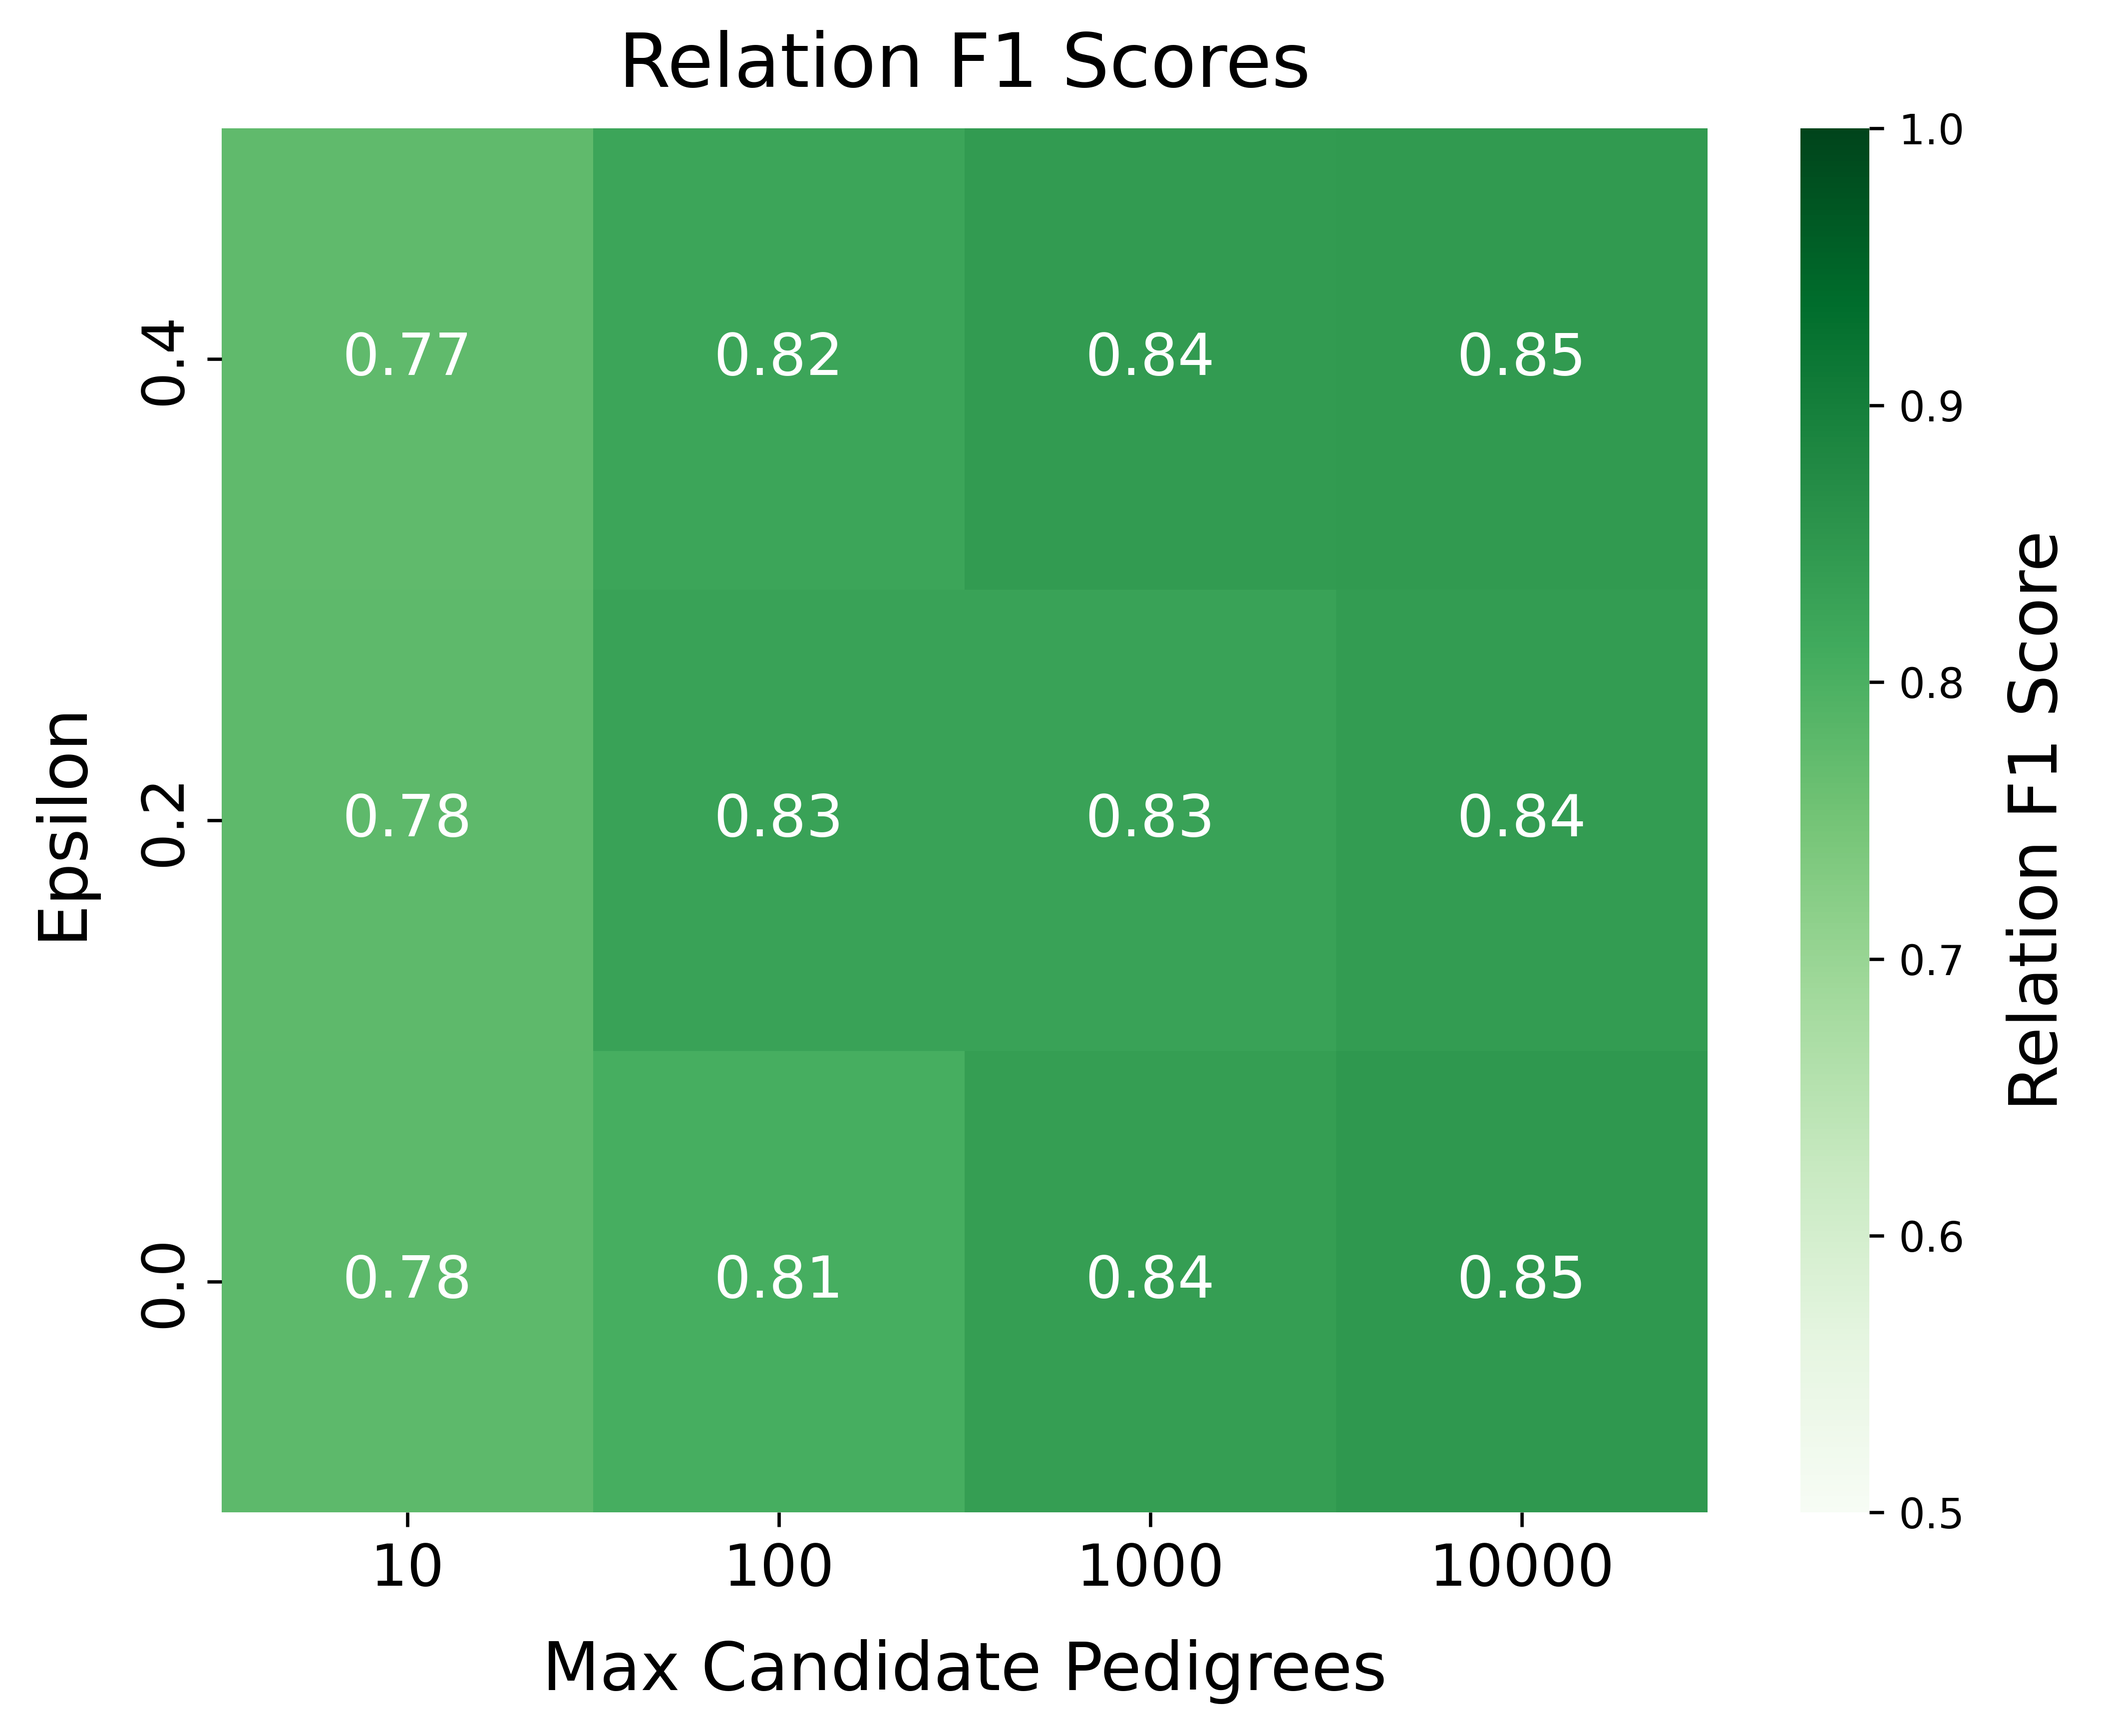
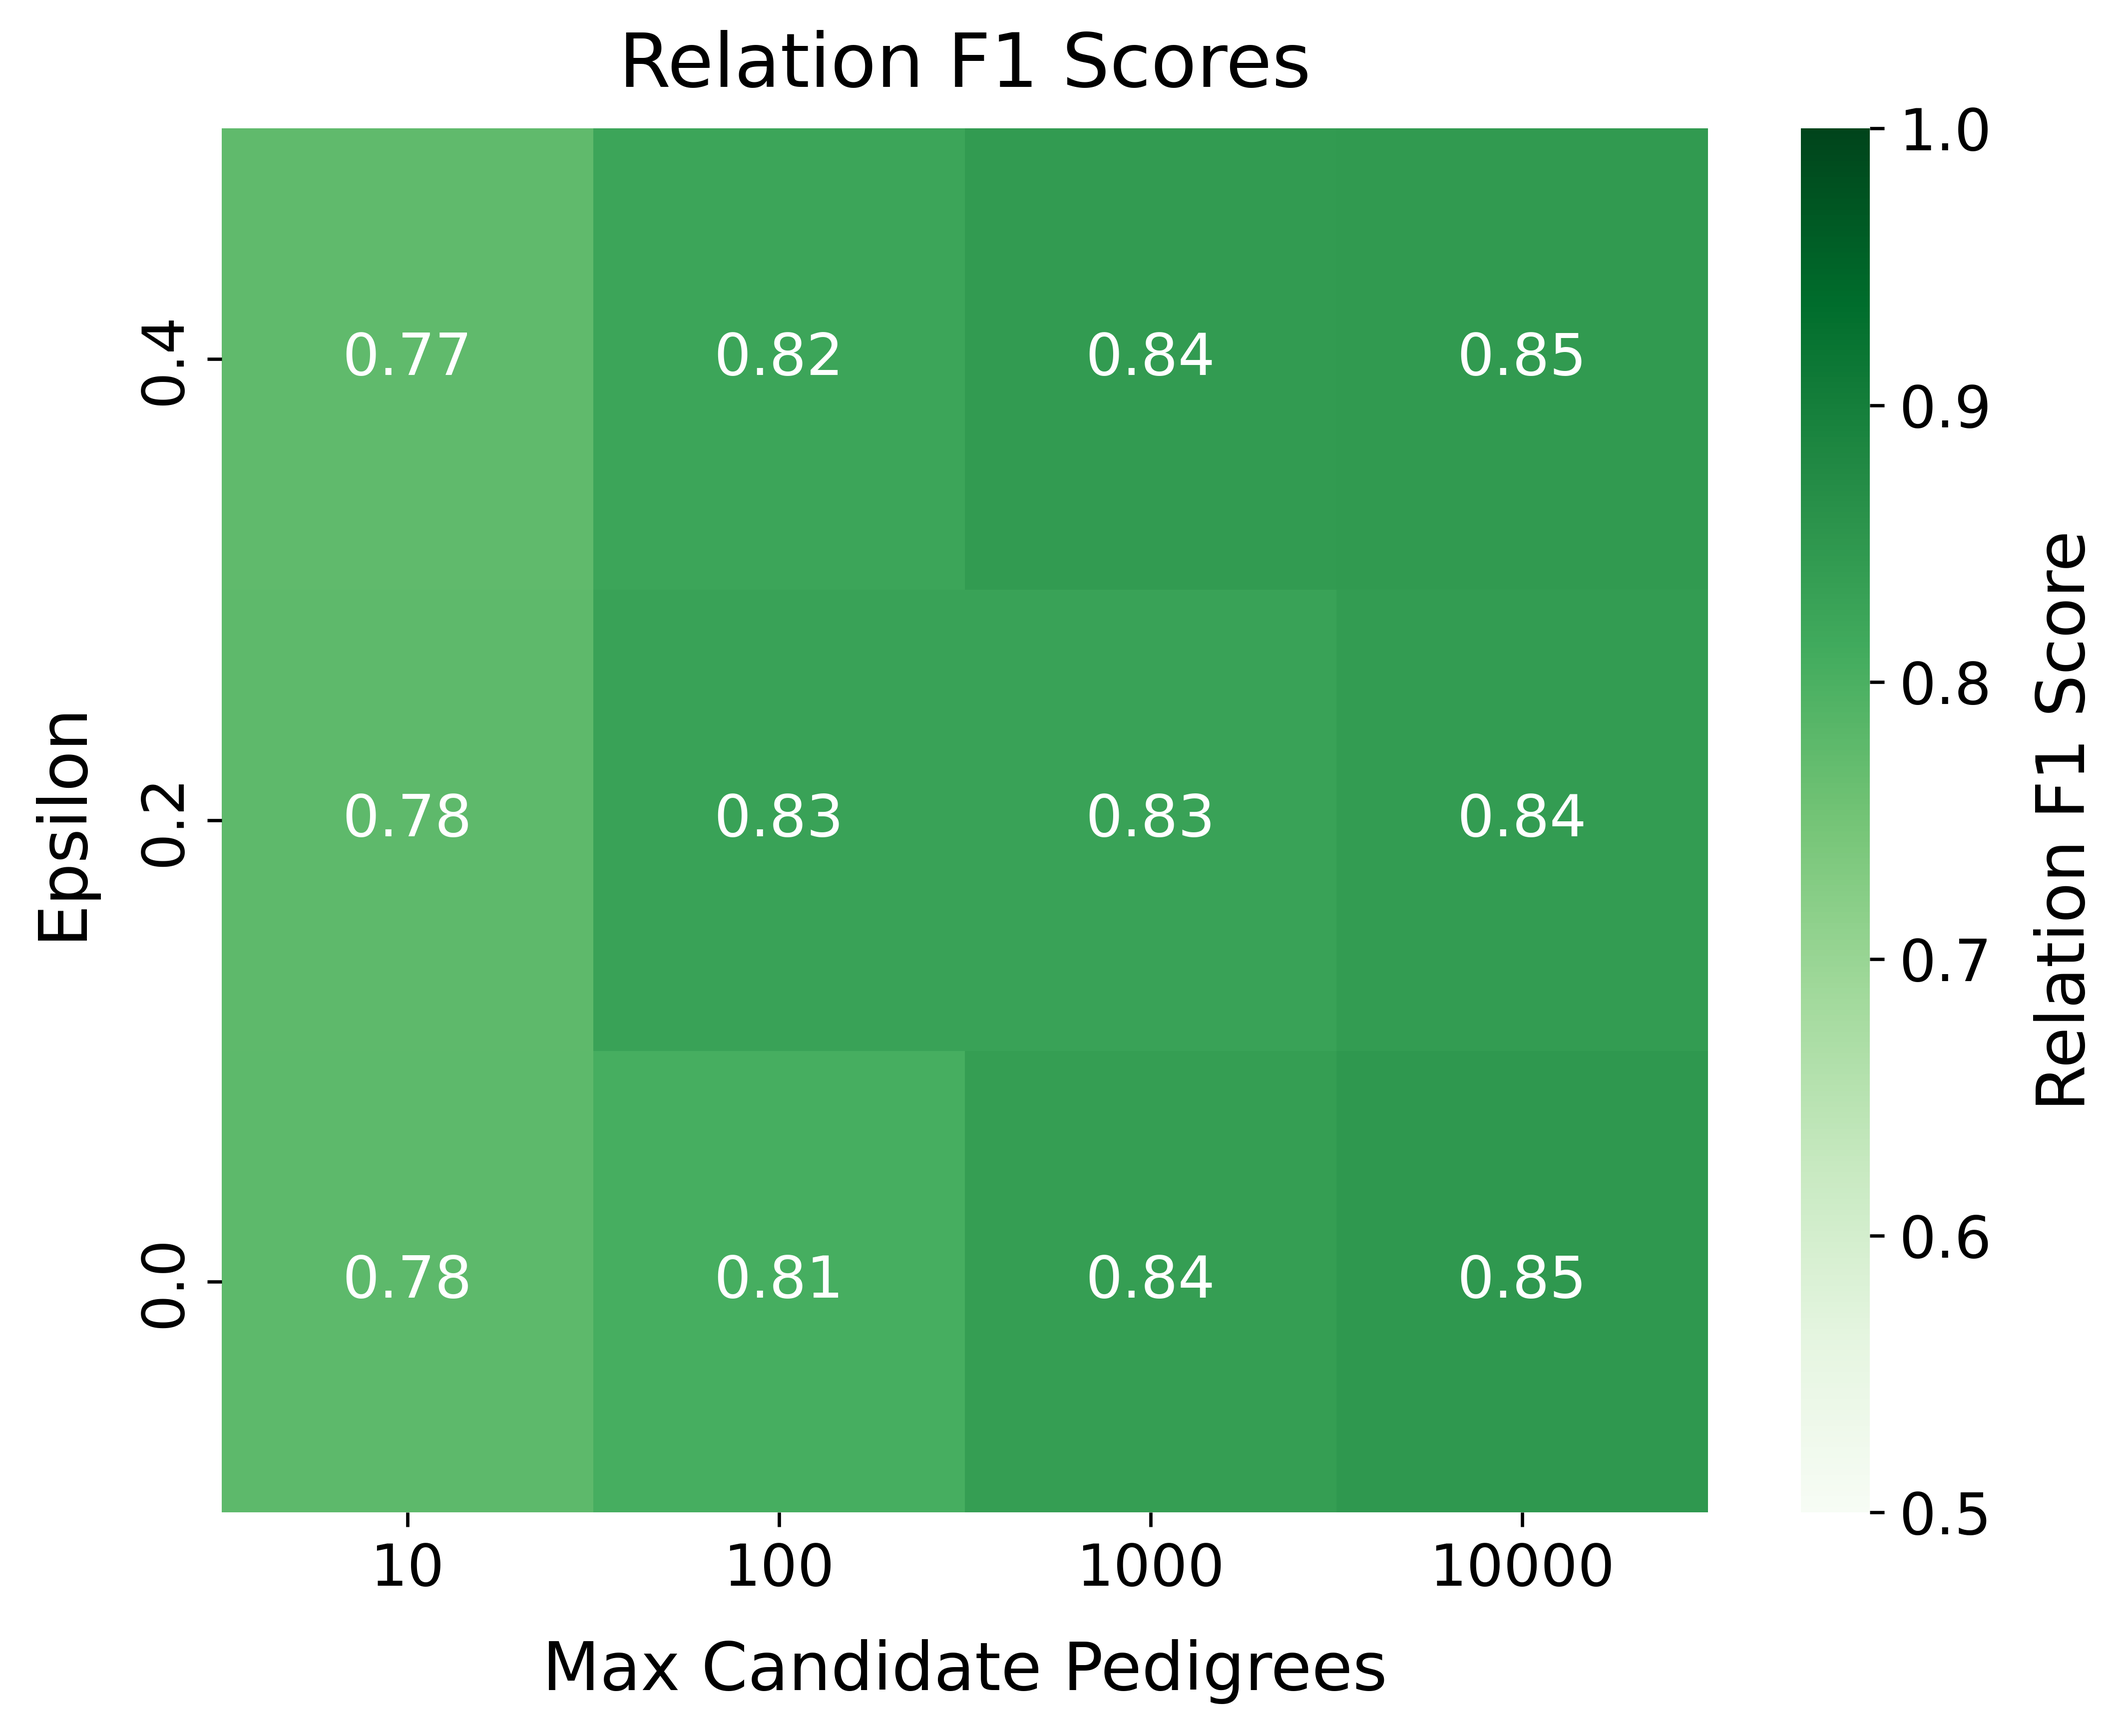
Make colorbar tick labels larger

diff --git a/benchmarks/simulations/plot_parameter_data.py b/benchmarks/simulations/plot_parameter_data.py
@@ -103,7 +103,6 @@ def plot_results(results_dir: str) -> None:
             annot=True,
             fmt=".2f",
             cmap="Blues",
-            cbar_kws={"label": f"{metric} Score"},
             vmin=0.5,
             vmax=1.0,
             annot_kws={"size": 14},
@@ -112,6 +111,8 @@ def plot_results(results_dir: str) -> None:
         ax.figure.axes[-1].yaxis.labelpad = 10
         # Set colorbar label size
         ax.figure.axes[-1].yaxis.label.set_size(16)
+        # Set colorbar tick label size
+        ax.figure.axes[-1].tick_params(labelsize=14)
         plt.title(f"{metric} Scores", fontsize=18, pad=10)
         plt.xlabel("Kinship Relation Error Rate Scale", fontsize=16, labelpad=10)
         plt.ylabel("p(Mask Node)", fontsize=16, labelpad=10)

diff --git a/benchmarks/simulations/plot_sampling_data.py b/benchmarks/simulations/plot_sampling_data.py
@@ -63,6 +63,8 @@ def plot_results(results_dir: str) -> None:
         ax.figure.axes[-1].yaxis.labelpad = 10
         # Set colorbar label size
         ax.figure.axes[-1].yaxis.label.set_size(16)
+        # Set colorbar tick label size
+        ax.figure.axes[-1].tick_params(labelsize=14)
         plt.title(f"{metric} Scores", fontsize=18, pad=10)
         plt.xlabel("Max Candidate Pedigrees", fontsize=16, labelpad=10)
         plt.ylabel("Epsilon", fontsize=16, labelpad=10)
